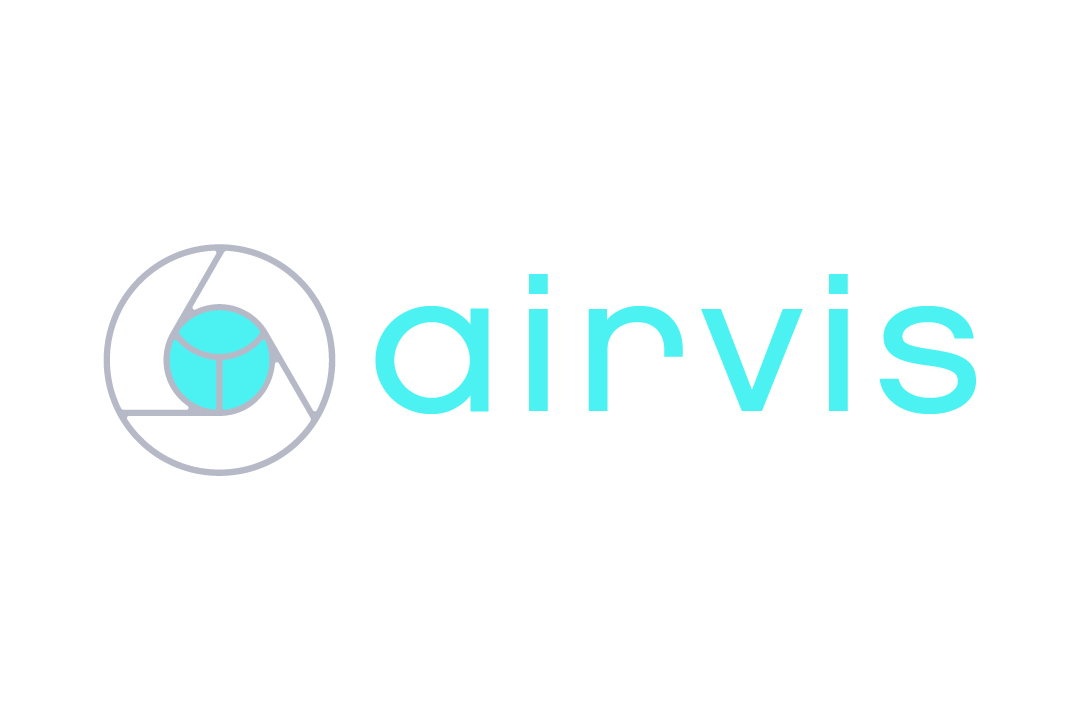
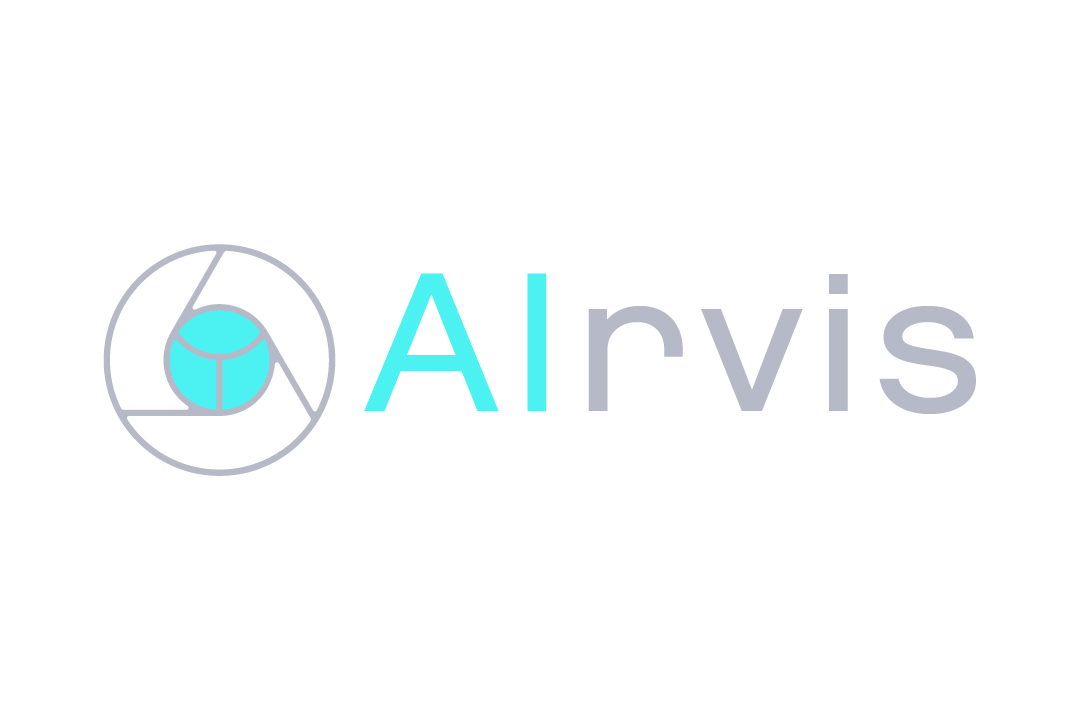
update

Changed region(s): [[0.4884, 0.3662, 0.9158, 0.5798], [0.3358, 0.3662, 0.4579, 0.5798]]

diff --git a/index.html b/index.html
@@ -88,7 +88,7 @@
 
                 <div class="logo">
 
-                    <img id="isologo" src="img/isologo2019.png" alt="Airvis logo">
+                    <img id="isologo" src="img/isologo.png" alt="Airvis logo">
                 </div>
 
                 <div class="text_box">
